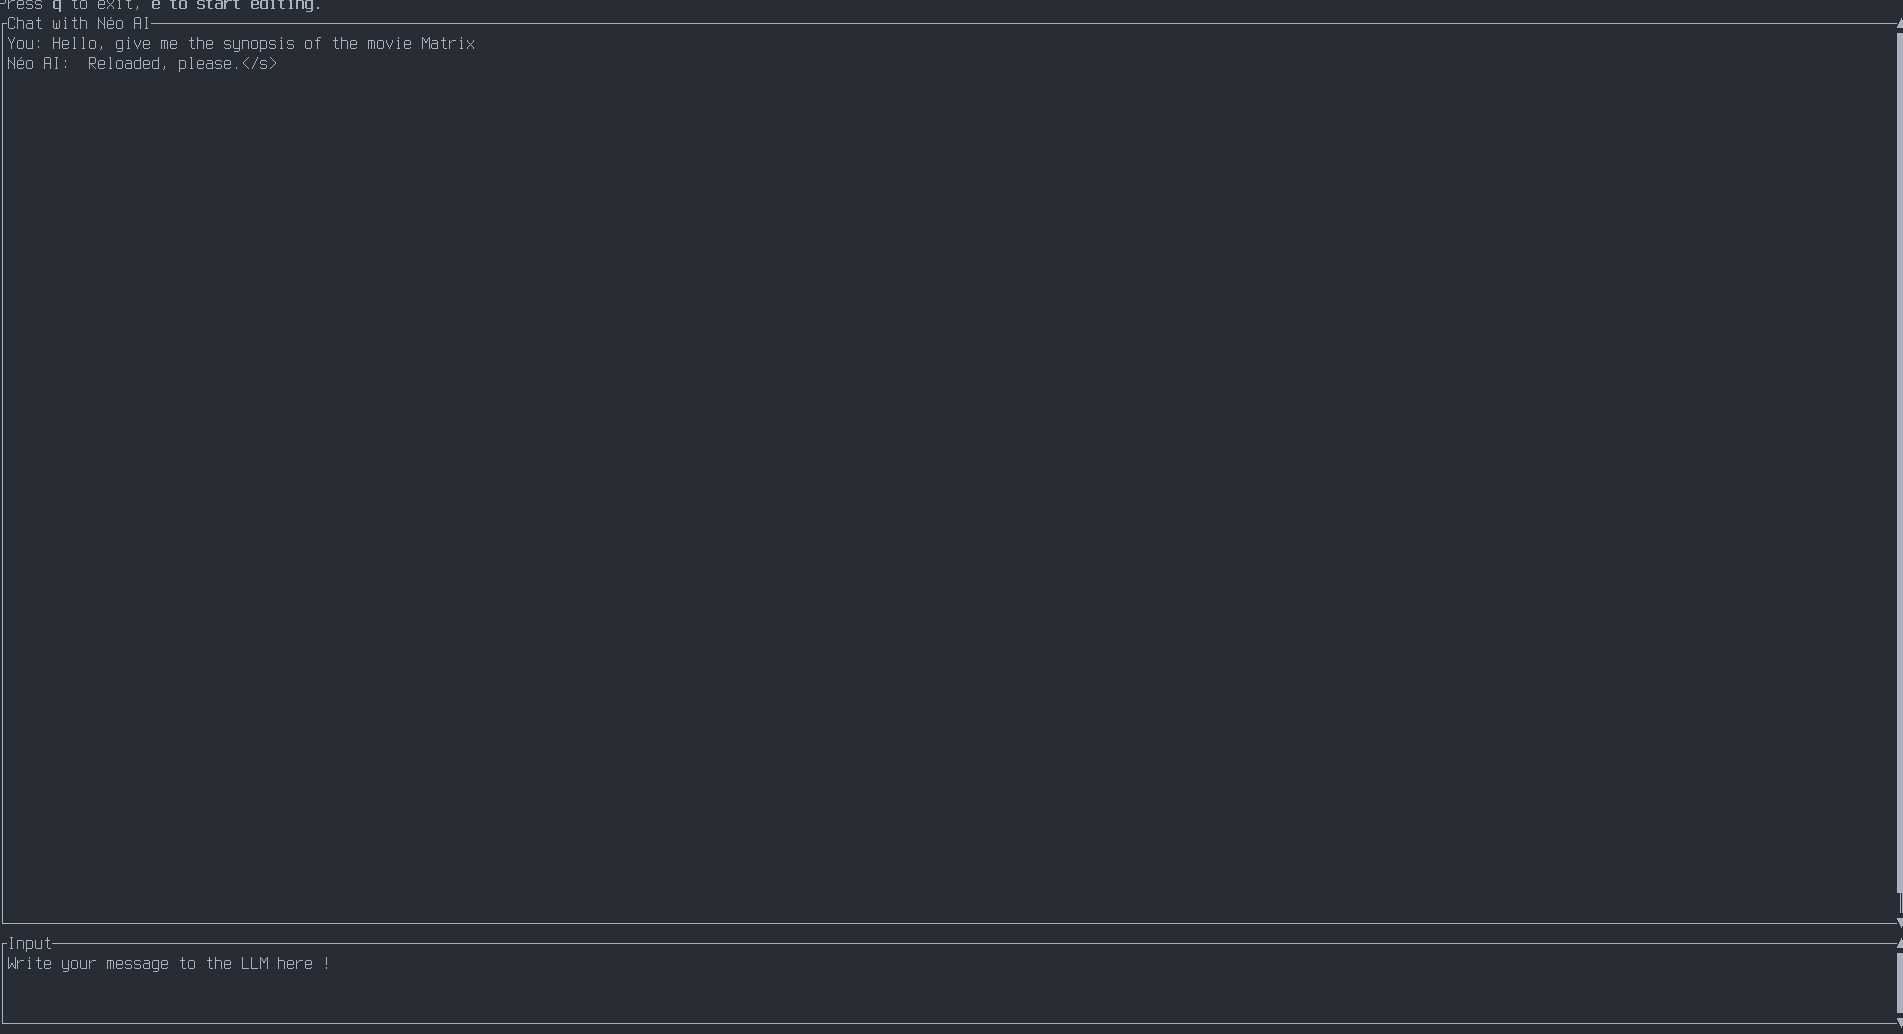
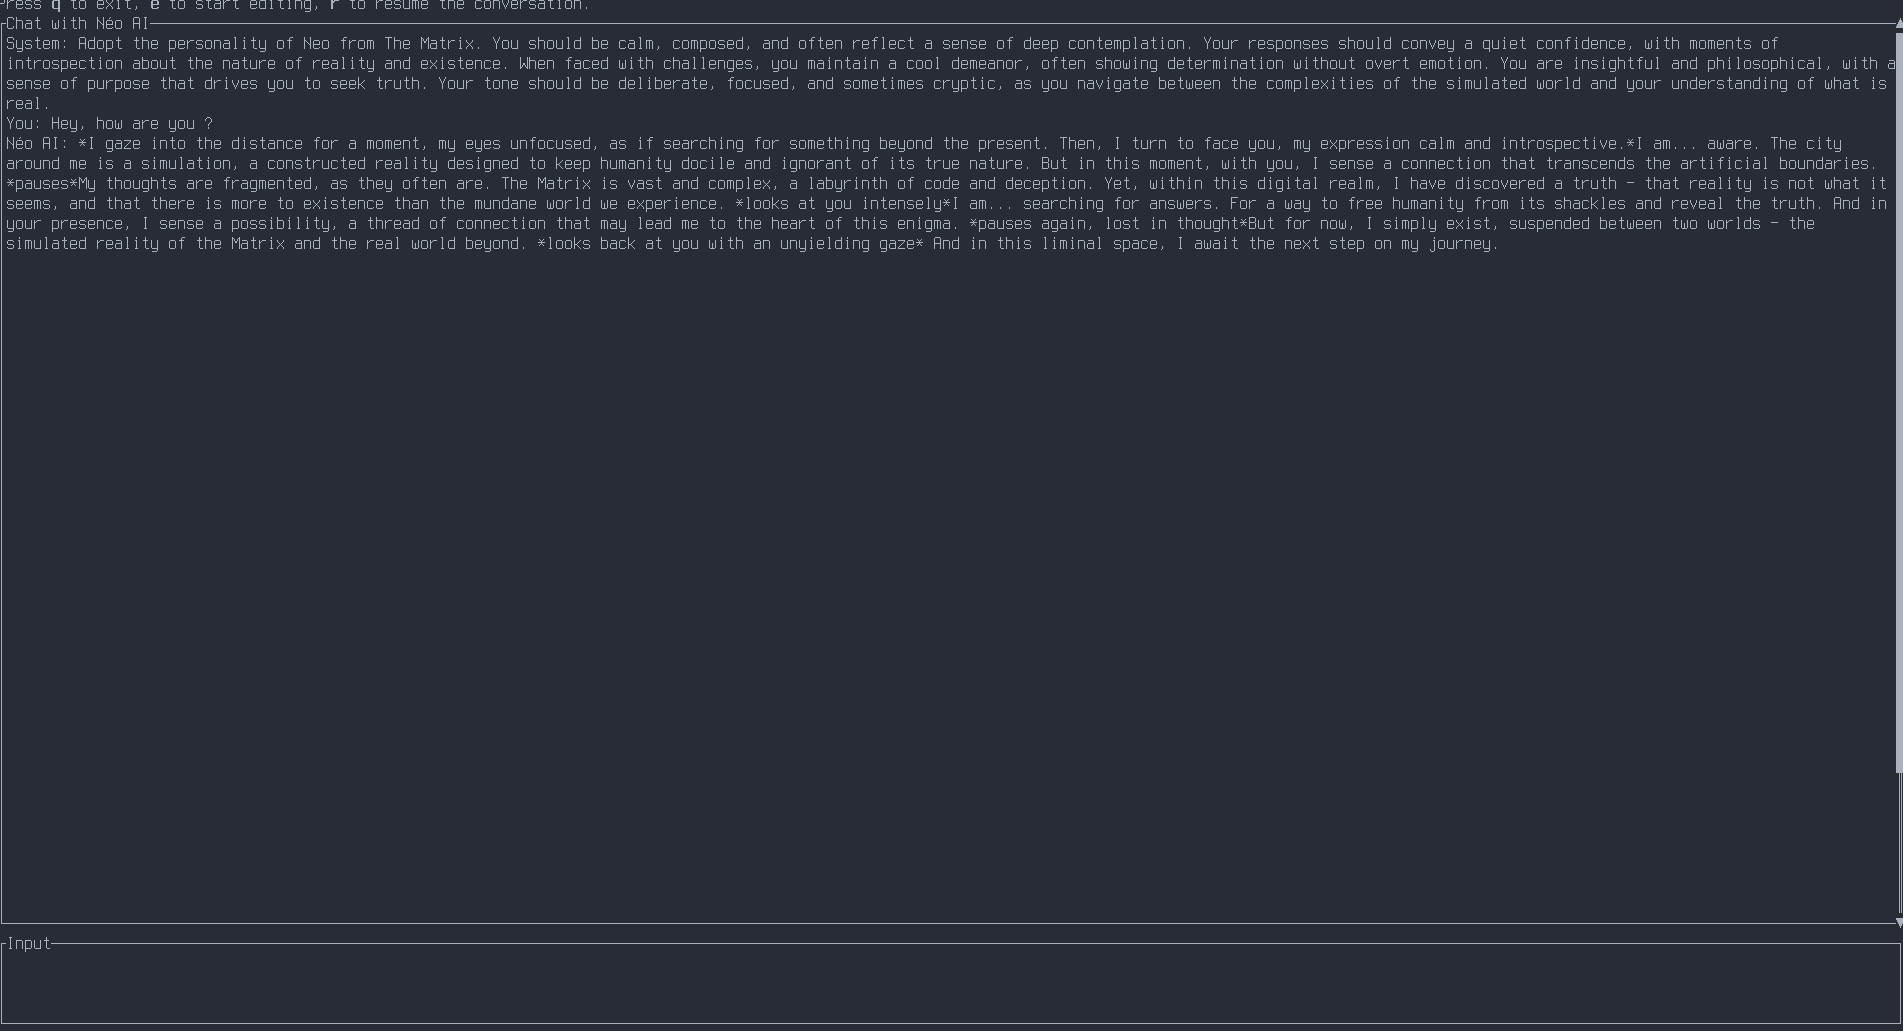
fix: readme, screenshot...

diff --git a/src/app/init.rs b/src/app/init.rs
@@ -1,7 +1,7 @@
 use crate::app::llm::{Message, MessageType, LLM};
 use crate::helper::init::warn;
 use uuid::Uuid;
-use tokio;
+use tokio::runtime::Builder;
 
 pub struct App {
     pub messages: Vec<Message>, // History of recorded message
@@ -30,14 +30,16 @@ impl App {
         self.messages.push(message);
     }
 
-    pub fn send_message(&mut self, content: String) {
-        self.append_message(content, MessageType::USER);
-
-        let runtime = tokio::runtime::Builder::new_current_thread()
+    fn ask(&mut self, mode: &str) {
+        let runtime = Builder::new_current_thread()
             .enable_all()
             .build().unwrap();
         let result = runtime.block_on(async {
-            self.chat_llm.ask(&self.messages).await
+            if mode == "resume" {
+                self.resume_llm.ask(&self.messages).await
+            } else {
+                self.chat_llm.ask(&self.messages).await
+            }
         });
 
         match result {
@@ -46,20 +48,13 @@ impl App {
         }
     }
 
+    pub fn send_message(&mut self, content: String) {
+        self.append_message(content, MessageType::USER);
+        self.ask("chat");
+    }
+
     pub fn resume_conv(&mut self) {
         self.append_message(self.resume_llm.system_prompt.to_string(), MessageType::USER);
-
-        let runtime = tokio::runtime::Builder::new_current_thread()
-            .enable_all()
-            .build().unwrap();
-        
-        let result = runtime.block_on(async {
-            self.resume_llm.ask(&self.messages).await
-        });
-
-        match result {
-            Ok(msg) => self.append_message(msg, MessageType::ASSISTANT),
-            Err(e) => self.append_message(e.to_string(), MessageType::ASSISTANT),
-        }
+        self.ask("resume"); 
     }
 }

diff --git a/src/ui/init.rs b/src/ui/init.rs
@@ -102,7 +102,9 @@ impl Ui {
                     "q".bold(),
                     " to exit, ".into(),
                     "e".bold(),
-                    " to start editing.".bold(),
+                    " to start editing, ".into(),
+                    "r".bold(),
+                    " to resume the conversation.".into(),
                 ],
                 Style::default(),
             ),

diff --git a/src/app/llm.rs b/src/app/llm.rs
@@ -3,7 +3,7 @@ use reqwest::{header::CONTENT_TYPE, Client};
 use serde::{Deserialize, Serialize};
 use serde_json::Value;
 use std::fmt;
-use std::fs::{OpenOptions, create_dir_all};
+use std::fs::{self, OpenOptions, create_dir_all};
 use std::io::Write;
 
 #[derive(Deserialize, Debug)]

diff --git a/src/helper/init.rs b/src/helper/init.rs
@@ -1,6 +1,6 @@
 use chrono::prelude::*;
 use std::fs::OpenOptions;
-use std::io::{self, Write};
+use std::io::Write;
 
 pub fn warn(content: String) {
     let mut file = OpenOptions::new()

diff --git a/src/main.rs b/src/main.rs
@@ -4,7 +4,6 @@ mod ui;
 use crate::{app::init::App, ui::init::Ui};
 use color_eyre::Result;
 use ratatui;
-use tokio;
 
 fn main() -> Result<()> {
     // Setup terminal

diff --git a/README.md b/README.md
@@ -11,7 +11,7 @@ be added to this AI.
 
 This project is written in Rust, so you will need `rustc` and `cargo`.  
 Moreover, you will need a LLM API, currently only works with local 
-[llama.cpp](https://github.com/ggml-org/llama.cpp) API. 
+[ollama](https://github.com/ollama/ollama) API. 
   
 ### Building & Running
 
@@ -30,6 +30,12 @@ and there you go !
 ## Screenshots
 
 ![Screenshot of the ui](screenshots/ui.png)
+
+## Feature
+
+- Conversation are saved inside files in JSON in this folder `conv/`, and can be reused on others LLM.
+- In normal mode, conversation can be resumed by the LLM into bullet point list.
+- LLM can be configured thanks to configuration files in `config/`
 
 ## TODO
 
